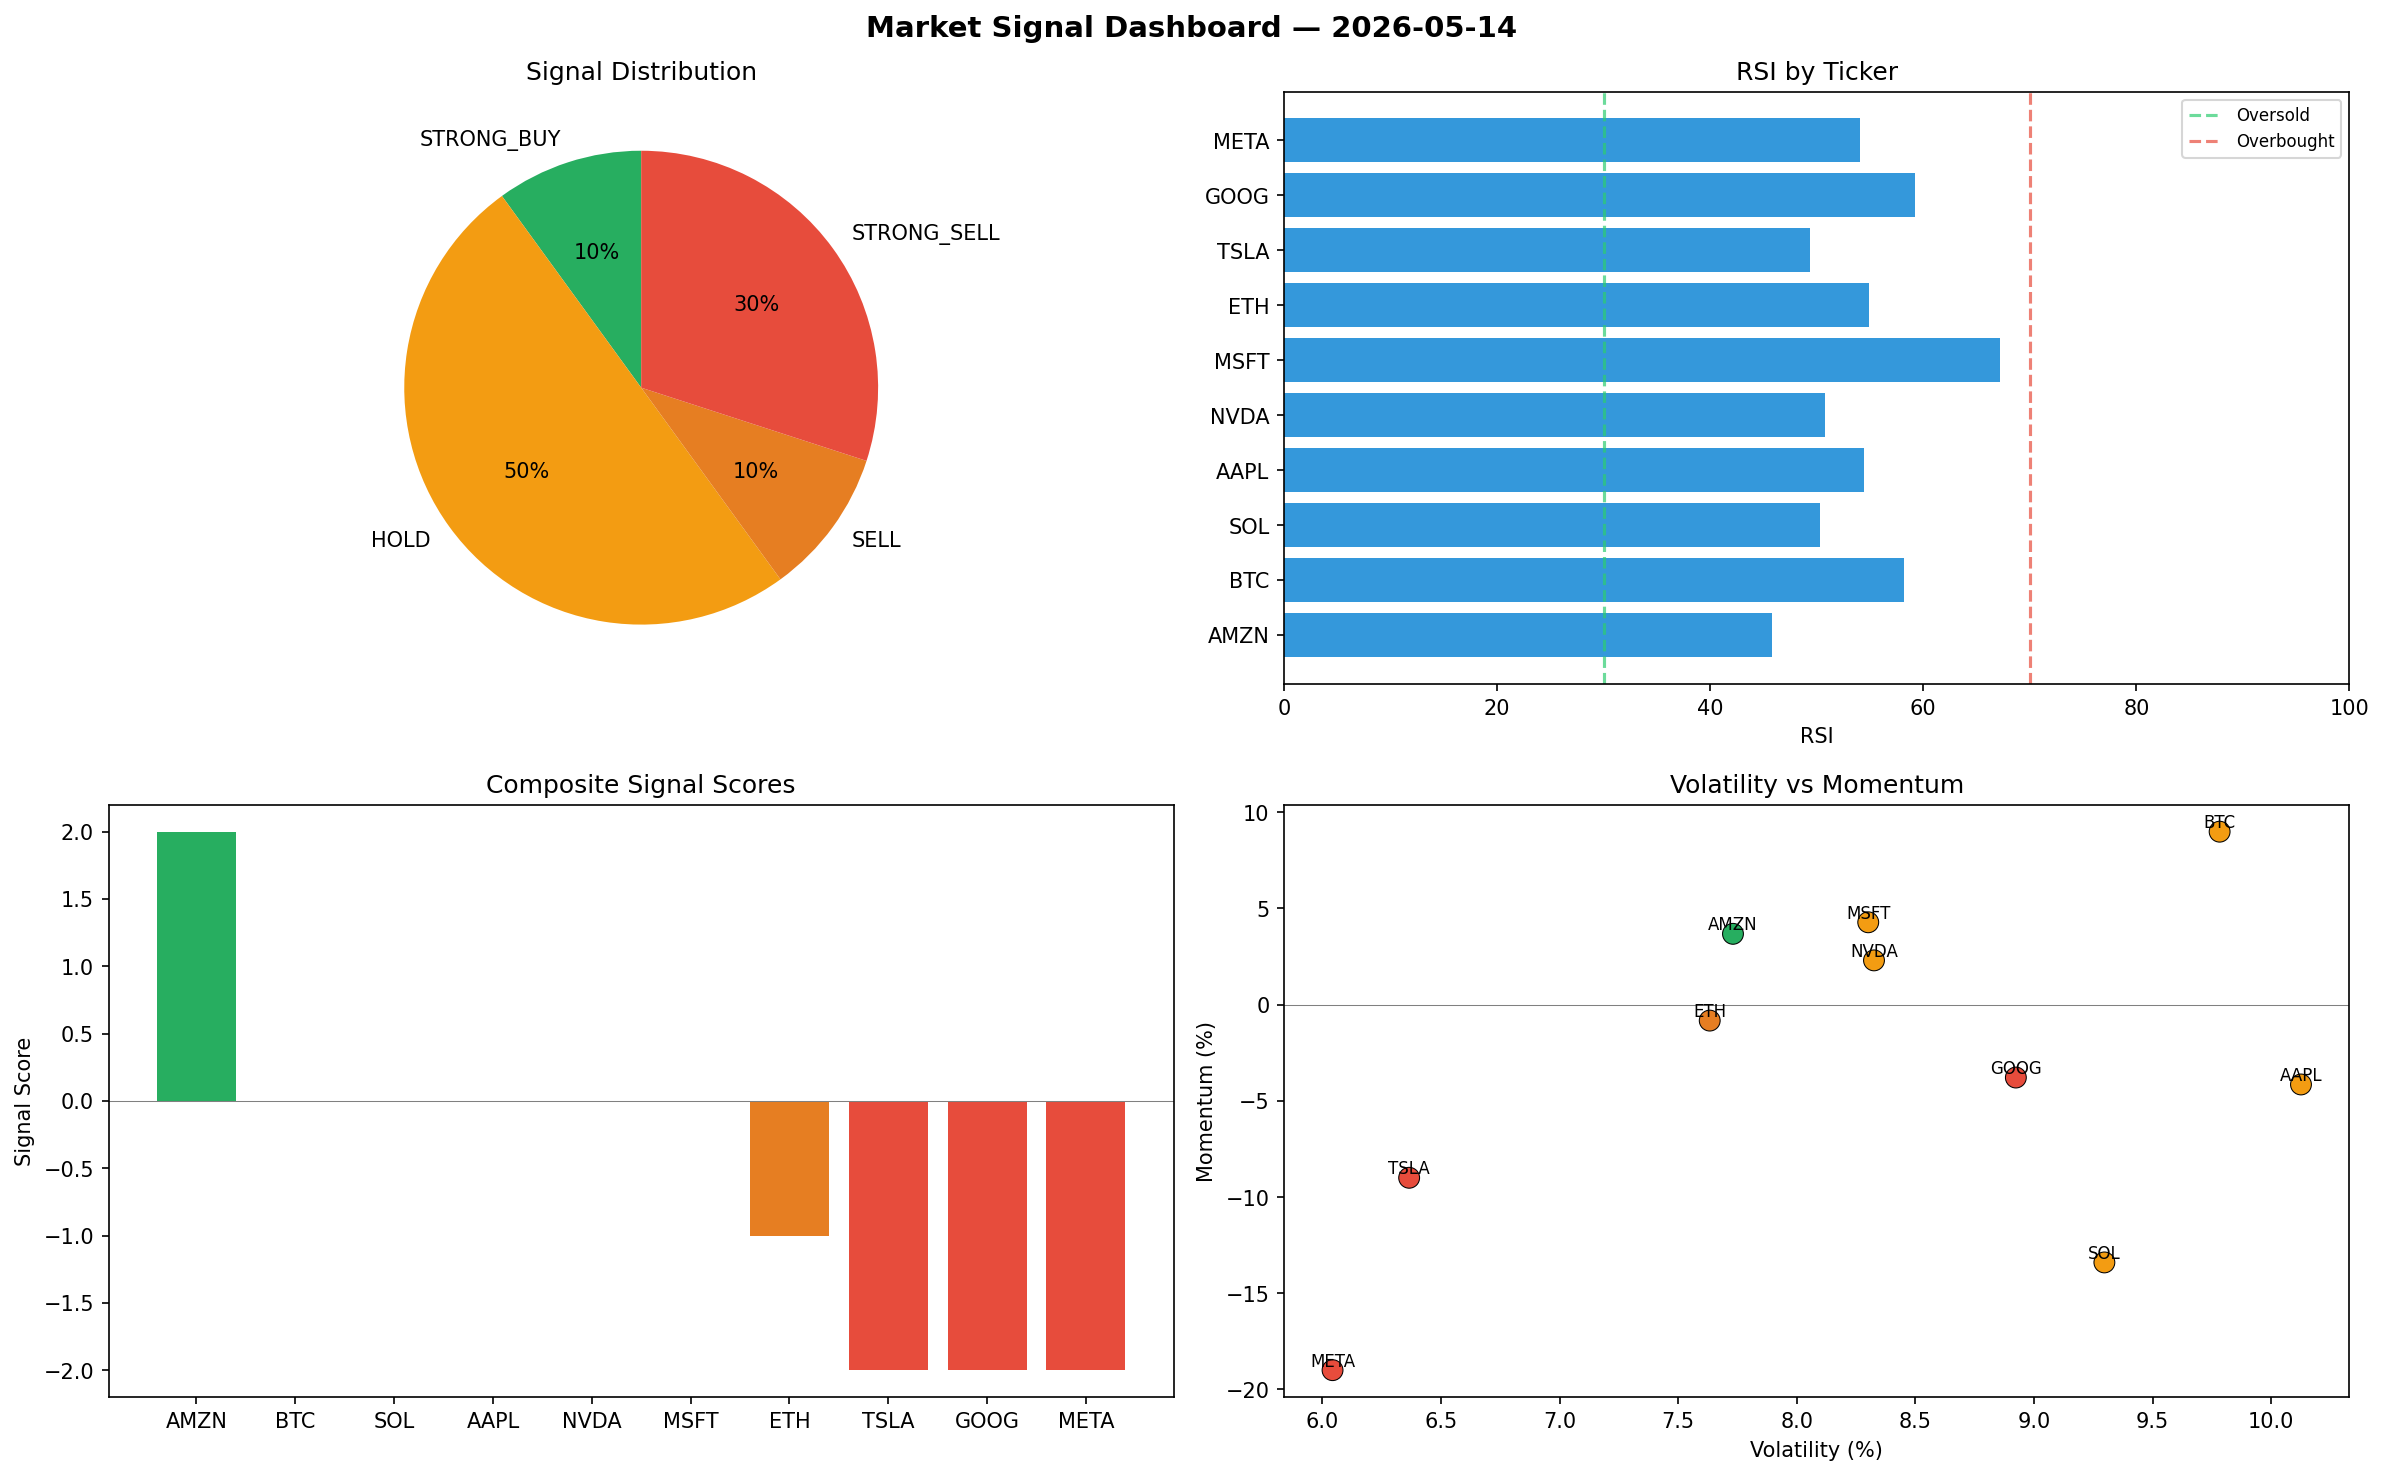
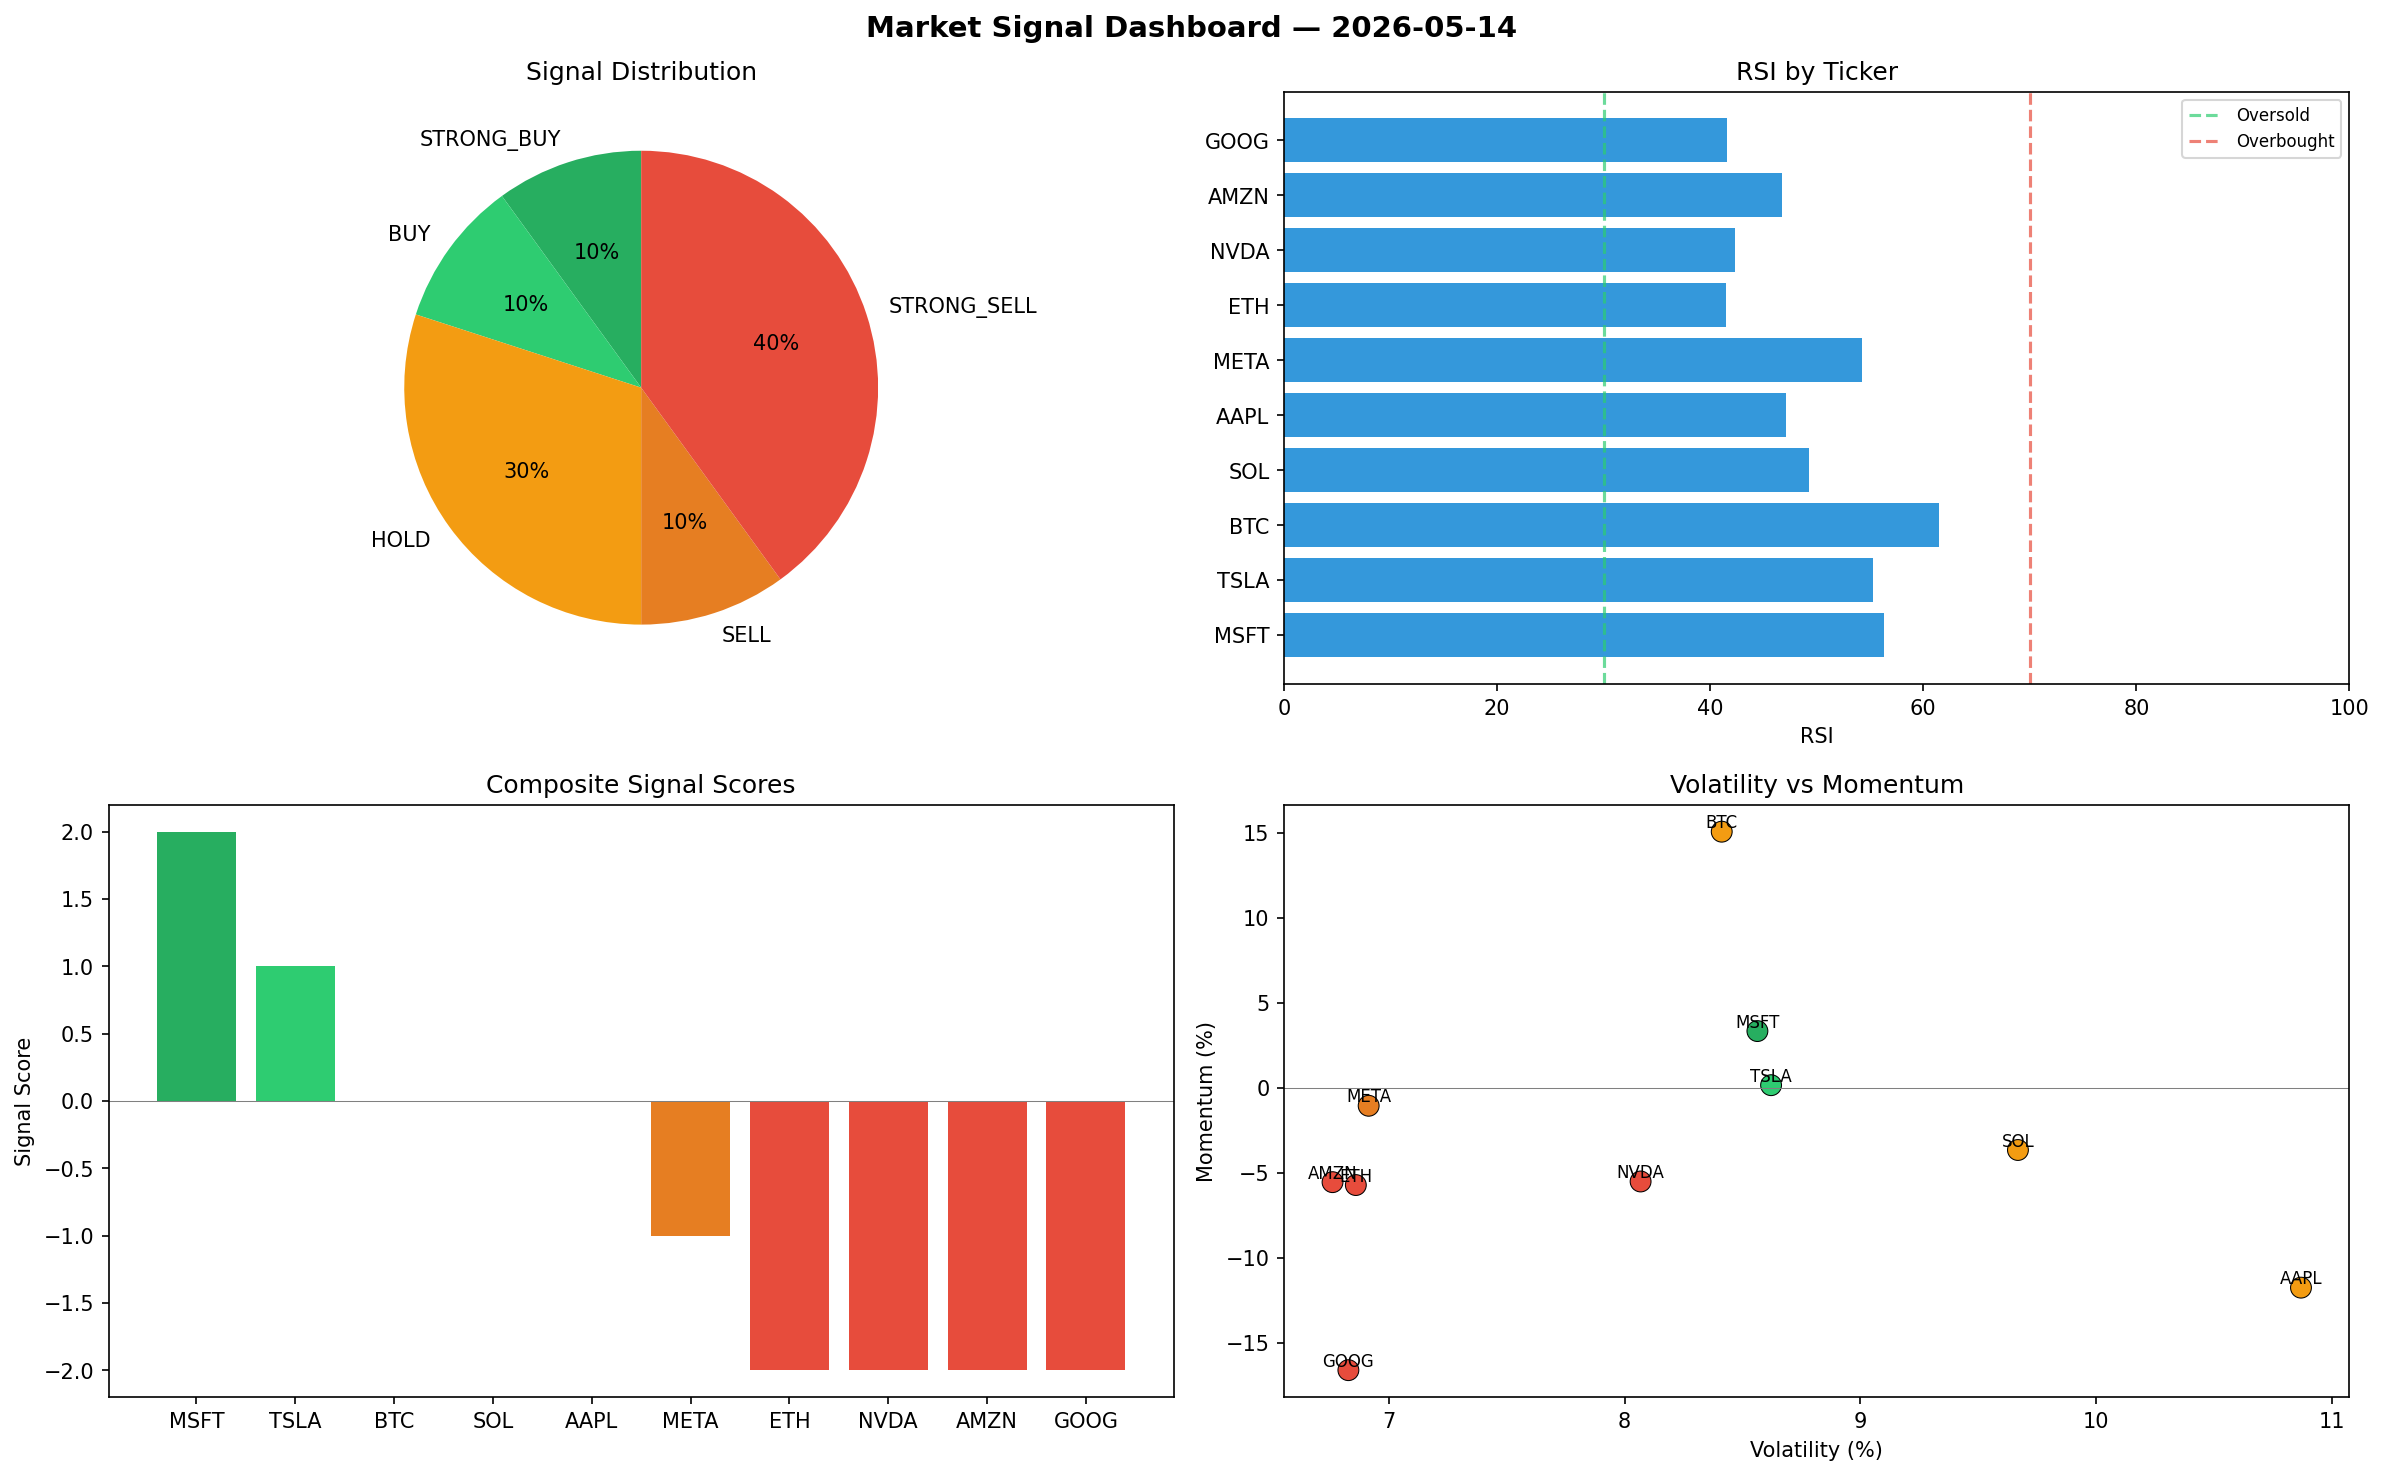
automated-bots: market signals 2026-05-14T21:40

diff --git a/logs/2026-05-14.md b/logs/2026-05-14.md
@@ -1,6 +1,6 @@
 # Market Signal Report — 2026-05-14
 
-**Run ID:** `88e9abecde` | **Buy:** 1 | **Sell:** 4 | **Hold:** 5
+**Run ID:** `ac4706a1ee` | **Buy:** 2 | **Sell:** 5 | **Hold:** 3
 
 ![Dashboard](2026-05-14_dashboard.png)
 
@@ -8,28 +8,28 @@
 
 | Ticker | Price | Signal | Score | RSI | Momentum | Confidence |
 |--------|-------|--------|-------|-----|----------|------------|
-| AMZN | $252.96 | **STRONG_BUY** | 2 | 45.78 | 0.0368 | 0.5 |
-| BTC | $1586.78 | **HOLD** | 0 | 58.22 | 0.0899 | 0.0 |
-| SOL | $2376.72 | **HOLD** | 0 | 50.31 | -0.134 | 0.0 |
-| AAPL | $2210.97 | **HOLD** | 0 | 54.39 | -0.0415 | 0.0 |
-| NVDA | $1282.7 | **HOLD** | 0 | 50.78 | 0.023 | 0.0 |
-| MSFT | $3592.05 | **HOLD** | 0 | 67.18 | 0.0428 | 0.0 |
-| ETH | $132.59 | **SELL** | -1 | 54.94 | -0.0083 | 0.25 |
-| TSLA | $1114.15 | **STRONG_SELL** | -2 | 49.41 | -0.09 | 0.5 |
-| GOOG | $3472.09 | **STRONG_SELL** | -2 | 59.25 | -0.0379 | 0.5 |
-| META | $3210.96 | **STRONG_SELL** | -2 | 54.06 | -0.19 | 0.5 |
+| MSFT | $916.46 | **STRONG_BUY** | 2 | 56.31 | 0.0333 | 0.5 |
+| TSLA | $1324.51 | **BUY** | 1 | 55.3 | 0.0015 | 0.25 |
+| BTC | $5606.14 | **HOLD** | 0 | 61.49 | 0.1505 | 0.0 |
+| SOL | $4017.76 | **HOLD** | 0 | 49.23 | -0.0366 | 0.0 |
+| AAPL | $4069.3 | **HOLD** | 0 | 47.11 | -0.1175 | 0.0 |
+| META | $402.77 | **SELL** | -1 | 54.28 | -0.0106 | 0.25 |
+| ETH | $1071.52 | **STRONG_SELL** | -2 | 41.45 | -0.0572 | 0.5 |
+| NVDA | $3325.14 | **STRONG_SELL** | -2 | 42.31 | -0.0551 | 0.5 |
+| AMZN | $2957.47 | **STRONG_SELL** | -2 | 46.72 | -0.0555 | 0.5 |
+| GOOG | $3241.42 | **STRONG_SELL** | -2 | 41.62 | -0.166 | 0.5 |
 
 ## Delta vs Yesterday
 
 | Ticker | Today | Yesterday | Price Change | Signal Changed |
 |--------|-------|-----------|-------------|----------------|
-| AMZN | STRONG_BUY | STRONG_SELL | 📉 -89.38% | ⚠ YES |
-| BTC | HOLD | SELL | 📉 -66.07% | ⚠ YES |
-| SOL | HOLD | HOLD | 📉 -15.87% | — |
-| AAPL | HOLD | HOLD | 📉 -13.7% | — |
-| NVDA | HOLD | HOLD | 📉 -4.48% | — |
-| MSFT | HOLD | HOLD | 📈 156.02% | — |
-| ETH | SELL | STRONG_SELL | 📉 -95.47% | ⚠ YES |
-| TSLA | STRONG_SELL | STRONG_SELL | 📈 85.11% | — |
-| GOOG | STRONG_SELL | STRONG_SELL | 📈 118.2% | — |
-| META | STRONG_SELL | BUY | 📈 80.54% | ⚠ YES |
+| MSFT | STRONG_BUY | HOLD | 📉 -34.68% | ⚠ YES |
+| TSLA | BUY | STRONG_SELL | 📈 120.06% | ⚠ YES |
+| BTC | HOLD | SELL | 📈 19.89% | ⚠ YES |
+| SOL | HOLD | HOLD | 📈 42.21% | — |
+| AAPL | HOLD | HOLD | 📈 58.84% | — |
+| META | SELL | BUY | 📉 -77.35% | ⚠ YES |
+| ETH | STRONG_SELL | STRONG_SELL | 📉 -63.41% | — |
+| NVDA | STRONG_SELL | HOLD | 📈 147.61% | ⚠ YES |
+| AMZN | STRONG_SELL | STRONG_SELL | 📈 24.14% | — |
+| GOOG | STRONG_SELL | STRONG_SELL | 📈 103.7% | — |
